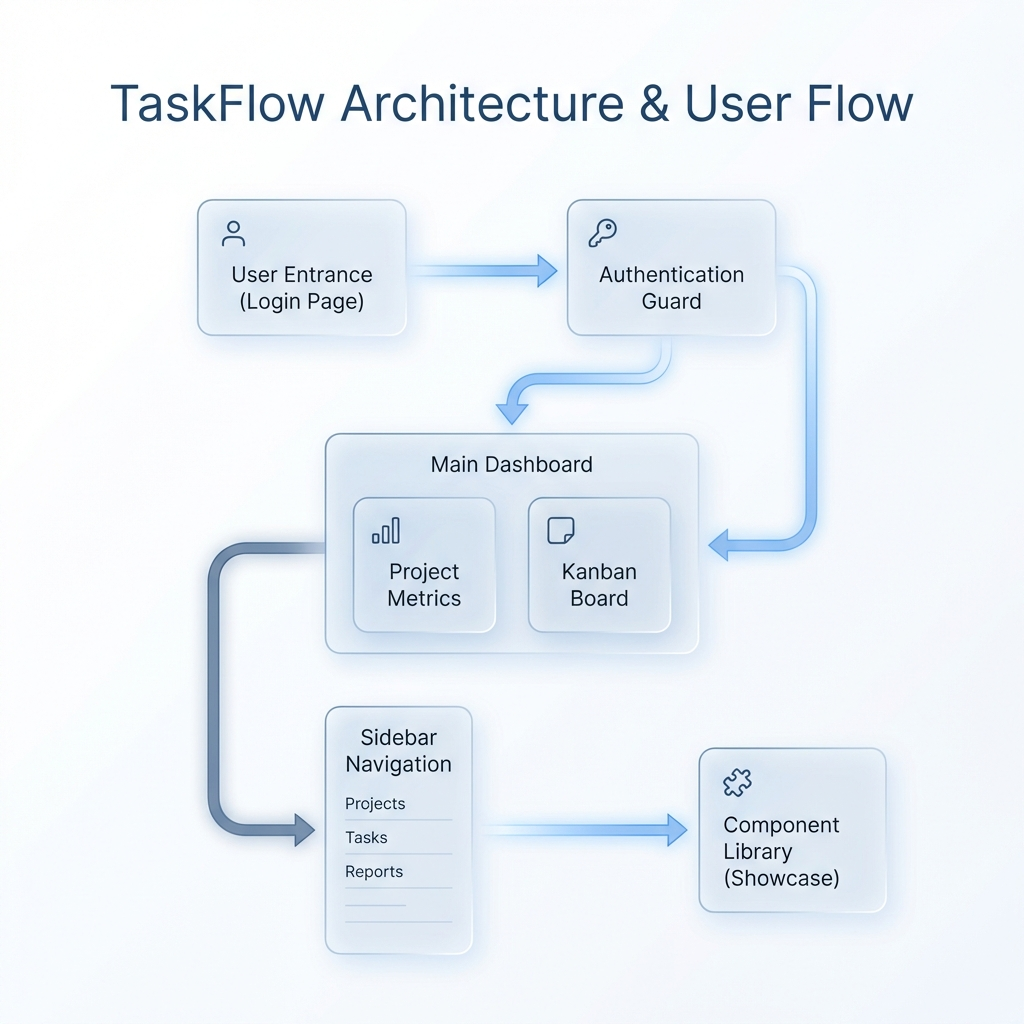
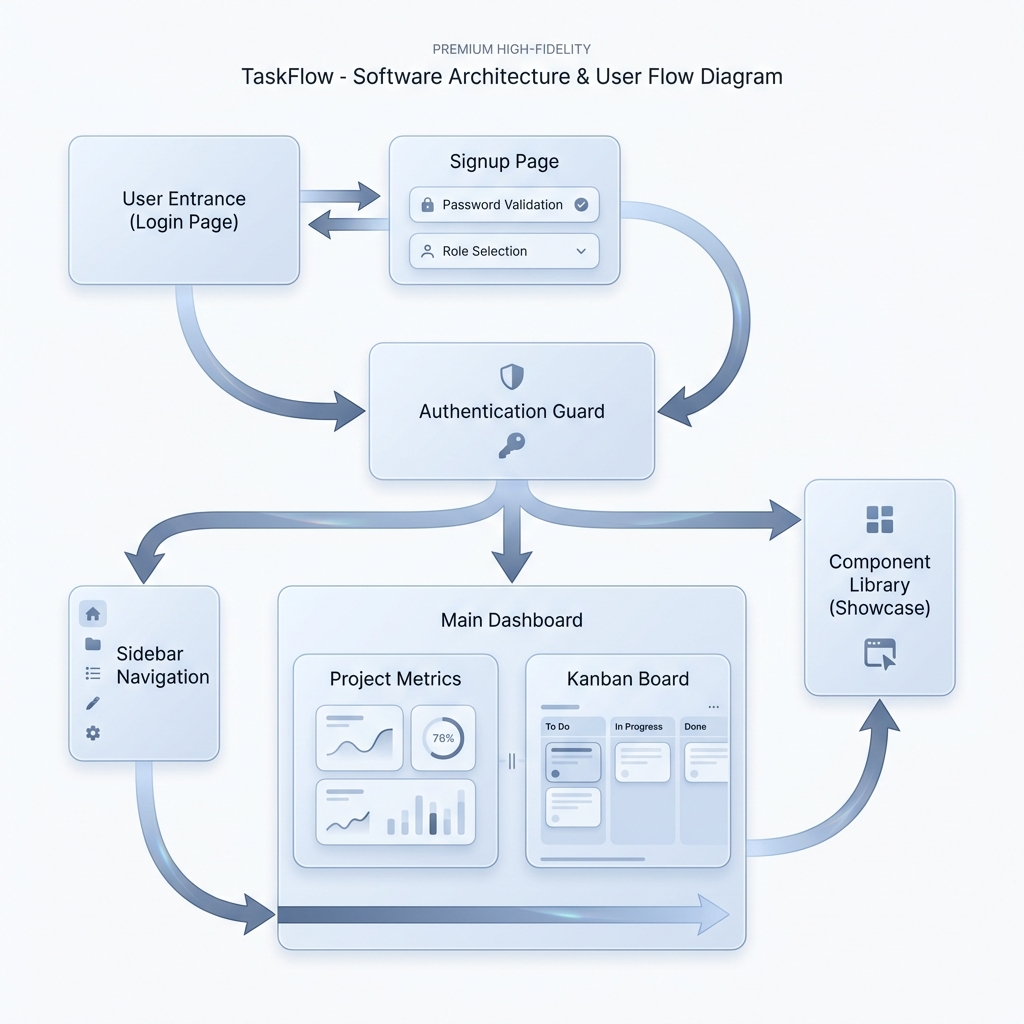
feat: Add initial authentication pages (Login, Signup) with routing and updated functional documentation and diagram.

Changed region(s): [[0.0625, 0.0312, 0.9375, 0.9375]]

diff --git a/src/app/pages/Signup.tsx b/src/app/pages/Signup.tsx
@@ -1,33 +1,51 @@
 import React from 'react';
 import { motion } from 'framer-motion';
 import { useNavigate, Link } from 'react-router-dom';
-import { CheckSquare, Mail, Lock, ArrowRight, Github } from 'lucide-react';
+import { Mail, Lock, UserCircle, ArrowRight, Github } from 'lucide-react';
 import { Button } from '../components/ui/button';
 import { Input } from '../components/ui/input';
 import { Label } from '../components/ui/label';
 import { Card, CardContent, CardDescription, CardFooter, CardHeader, CardTitle } from '../components/ui/card';
-
+import {
+  Select,
+  SelectContent,
+  SelectItem,
+  SelectTrigger,
+  SelectValue,
+} from '../components/ui/select';
 import { Logo } from '../components/icons/Logo';
 
 /**
- * Login component providing a premium authenticated entry point.
- * Features a clean, "Google Antigravity" light theme with subtle glassmorphism.
- * @returns {JSX.Element} The rendered Login component.
+ * Signup component for creating new accounts.
+ * Features a role selection dropdown and a premium light theme.
+ * @returns {JSX.Element} The rendered Signup component.
  */
-export default function Login() {
+export default function Signup() {
   const navigate = useNavigate();
   const [isLoading, setIsLoading] = React.useState(false);
 
+  const [password, setPassword] = React.useState('');
+
+  const constraints = [
+    { label: '8 characters minimum', test: (pwd: string) => pwd.length >= 8 },
+    { label: 'Uppercase letter', test: (pwd: string) => /[A-Z]/.test(pwd) },
+    { label: 'Number', test: (pwd: string) => /[0-9]/.test(pwd) },
+    { label: 'Special character', test: (pwd: string) => /[^A-Za-z0-9]/.test(pwd) },
+  ];
+
+  const isPasswordValid = constraints.every(c => c.test(password));
+
   /**
-   * Handles the login form submission.
+   * Handles the signup form submission.
    * Redirects to the dashboard on success.
    * @param {React.FormEvent} e - The form event.
    */
-  const handleLogin = async (e: React.FormEvent) => {
+  const handleSignup = async (e: React.FormEvent) => {
     e.preventDefault();
+    if (!isPasswordValid) return;
     setIsLoading(true);
     // Simulate a brief delay for a premium feel
-    await new Promise((resolve) => setTimeout(resolve, 800));
+    await new Promise((resolve) => setTimeout(resolve, 1000));
     setIsLoading(false);
     navigate('/dashboard');
   };
@@ -45,7 +63,7 @@ export default function Login() {
         className="z-10 w-full max-w-md px-4"
       >
         <Card className="border-slate-200 bg-white/80 backdrop-blur-xl shadow-[0_8px_30px_rgb(0,0,0,0.04)] overflow-hidden">
-          <CardHeader className="space-y-1 pb-8 text-center">
+          <CardHeader className="space-y-1 pb-6 text-center">
             <motion.div 
               initial={{ scale: 0.8 }}
               animate={{ scale: 1 }}
@@ -54,13 +72,13 @@ export default function Login() {
             >
               <Logo className="h-7 w-7" />
             </motion.div>
-            <CardTitle className="text-3xl font-bold tracking-tight text-slate-900">Welcome back</CardTitle>
+            <CardTitle className="text-3xl font-bold tracking-tight text-slate-900">Create account</CardTitle>
             <CardDescription className="text-slate-500">
-              Enter your credentials to access your workspace
+              Join TaskFlow and start managing your workspace
             </CardDescription>
           </CardHeader>
           <CardContent className="grid gap-6">
-            <form onSubmit={handleLogin} className="grid gap-4">
+            <form onSubmit={handleSignup} className="grid gap-4">
               <div className="grid gap-2">
                 <Label htmlFor="email" className="text-slate-700 text-sm font-medium ml-1">Email</Label>
                 <div className="relative group">
@@ -75,26 +93,59 @@ export default function Login() {
                 </div>
               </div>
               <div className="grid gap-2">
-                <div className="flex items-center justify-between ml-1">
-                  <Label htmlFor="password" className="text-slate-700 text-sm font-medium">Password</Label>
-                  <Button variant="link" className="px-0 font-normal text-xs text-slate-500 hover:text-slate-900 h-auto transition-colors">
-                    Forgot password?
-                  </Button>
-                </div>
+                <Label htmlFor="password" className="text-slate-700 text-sm font-medium ml-1">Password</Label>
                 <div className="relative group">
                   <Lock className="absolute left-3 top-1/2 -translate-y-1/2 h-4 w-4 text-slate-400 group-focus-within:text-primary transition-colors" />
                   <Input
                     id="password"
                     type="password"
+                    placeholder="Create a strong password"
                     className="pl-10 bg-white border-slate-200 text-slate-900 focus:border-primary/50 focus:ring-primary/20 transition-all duration-300"
+                    value={password}
+                    onChange={(e) => setPassword(e.target.value)}
                     required
                   />
                 </div>
+                {/* Password Constraints Checklist */}
+                <div className="grid grid-cols-2 gap-2 mt-1 px-1">
+                  {constraints.map((c, i) => {
+                    const isMet = c.test(password);
+                    return (
+                      <div key={i} className="flex items-center gap-2">
+                        <div className={`h-1.5 w-1.5 rounded-full transition-colors duration-300 ${isMet ? 'bg-green-500 shadow-[0_0_8px_rgba(34,197,94,0.6)]' : 'bg-slate-300'}`} />
+                        <span className={`text-[11px] transition-colors duration-300 ${isMet ? 'text-slate-900 font-medium' : 'text-slate-400'}`}>
+                          {c.label}
+                        </span>
+                      </div>
+                    );
+                  })}
+                </div>
+              </div>
+              <div className="grid gap-2">
+                <Label htmlFor="role" className="text-slate-700 text-sm font-medium ml-1">Workspace Role</Label>
+                <Select required>
+                  <SelectTrigger id="role" className="bg-white border-slate-200 text-slate-900 focus:border-primary/50 focus:ring-primary/20 h-10">
+                    <div className="flex items-center gap-3">
+                      <UserCircle className="h-4 w-4 text-slate-400" />
+                      <SelectValue placeholder="Select your role" />
+                    </div>
+                  </SelectTrigger>
+                  <SelectContent>
+                    <SelectItem value="pm">Project Manager</SelectItem>
+                    <SelectItem value="frontend">Frontend Developer</SelectItem>
+                    <SelectItem value="backend">Backend Developer</SelectItem>
+                    <SelectItem value="fullstack">Fullstack Developer</SelectItem>
+                    <SelectItem value="designer">UI/UX Designer</SelectItem>
+                    <SelectItem value="qa">QA Engineer</SelectItem>
+                    <SelectItem value="devops">DevOps Engineer</SelectItem>
+                    <SelectItem value="stakeholder">Stakeholder</SelectItem>
+                  </SelectContent>
+                </Select>
               </div>
               <Button 
                 type="submit" 
-                className="w-full h-11 mt-2 bg-primary hover:bg-primary/90 text-primary-foreground font-semibold rounded-xl shadow-[0_8px_16px_rgba(37,99,235,0.15)] hover:shadow-[0_12px_24px_rgba(37,99,235,0.2)] transition-all duration-300 group"
-                disabled={isLoading}
+                className="w-full h-11 mt-2 bg-primary hover:bg-primary/90 text-primary-foreground font-semibold rounded-xl shadow-[0_8px_16px_rgba(37,99,235,0.15)] hover:shadow-[0_12px_24px_rgba(37,99,235,0.2)] transition-all duration-300 group disabled:opacity-50 disabled:shadow-none"
+                disabled={isLoading || !isPasswordValid}
               >
                 {isLoading ? (
                   <span className="flex items-center gap-2">
@@ -103,11 +154,11 @@ export default function Login() {
                       transition={{ duration: 1, repeat: Infinity, ease: "linear" }}
                       className="h-4 w-4 border-2 border-primary-foreground/30 border-t-primary-foreground rounded-full"
                     />
-                    Authenticating...
+                    Creating Account...
                   </span>
                 ) : (
                   <span className="flex items-center justify-center gap-2">
-                    Sign In
+                    Get Started
                     <ArrowRight className="h-4 w-4 group-hover:translate-x-1 transition-transform" />
                   </span>
                 )}
@@ -119,7 +170,7 @@ export default function Login() {
                 <span className="w-full border-t border-slate-200" />
               </div>
               <div className="relative flex justify-center text-xs uppercase">
-                <span className="bg-white px-2 text-slate-500">Or continue with</span>
+                <span className="bg-white px-2 text-slate-500">Or sign up with</span>
               </div>
             </div>
 
@@ -151,11 +202,11 @@ export default function Login() {
               </Button>
             </div>
           </CardContent>
-          <CardFooter className="pb-8 justify-center">
+          <CardFooter className="pb-8 justify-center border-t border-slate-100 bg-slate-50/50 pt-6">
             <p className="text-slate-500 text-sm">
-              Don&apos;t have an account?{' '}
-              <Link to="/signup" className="font-medium text-primary hover:text-primary/80 transition-colors">
-                Sign up for free
+              Already have an account?{' '}
+              <Link to="/login" className="font-medium text-primary hover:text-primary/80 transition-colors">
+                Sign In
               </Link>
             </p>
           </CardFooter>

diff --git a/src/app/App.tsx b/src/app/App.tsx
@@ -3,6 +3,7 @@ import { BrowserRouter as Router, Routes, Route, Navigate } from 'react-router-d
 import Login from './pages/Login';
 import Dashboard from './pages/Dashboard';
 import Showcase from './pages/Showcase';
+import Signup from './pages/Signup';
 
 /**
  * Main App component that handles overall routing and layout.
@@ -12,8 +13,9 @@ function App() {
   return (
     <Router>
       <Routes>
-        {/* Public Route: Login Page */}
+        {/* Public Routes */}
         <Route path="/login" element={<Login />} />
+        <Route path="/signup" element={<Signup />} />
 
         {/* Protected Route: Dashboard (for now just a direct route) */}
         <Route path="/dashboard" element={<Dashboard />} />

diff --git a/contexte.md b/contexte.md
@@ -5,6 +5,9 @@ TaskFlow est une application web moderne et premium de gestion de tâches. Elle 
 
 ## Fonctionnalités Principales
 - **Authentification Premium** : Une page de connexion élégante avec un thème clair, des animations fluides et une vérification de l'état de chargement.
+- **Création de Compte (Signup)** : Une page d'inscription complète incluant :
+    - Sélection de rôle via un menu déroulant.
+    - **Validation Dynamique du Mot de Passe** : Analyse en temps réel de la complexité (longueur, majuscule, chiffre, caractère spécial).
 - **Tableau de Bord Intégré** : Une vue d'ensemble centralisée combinant des indicateurs de performance clés (KPI) et un tableau Kanban.
 - **Indicateurs de Performance (Stats)** : Suivi en temps réel des tâches totales, en cours, terminées et des membres de l'équipe.
 - **Tableau Kanban** : Organisation visuelle des tâches par colonnes (À faire, En cours, Révision, Terminé) avec cards détaillées (priorité, tags, assignés, dates).

diff --git a/diagramme_fonctionnel.md b/diagramme_fonctionnel.md
@@ -13,6 +13,9 @@ graph TD
     B -->|Non connecté| C[Page de Connexion]
     B -->|Connecté| D[Tableau de Bord]
     
+    C <-->|Lien| Signup[Page d'Inscription]
+    Signup -->|Création de compte| D
+    
     C -->|Identifiants valides| D
     
     D --> E[Barre Latérale - Sidebar]
